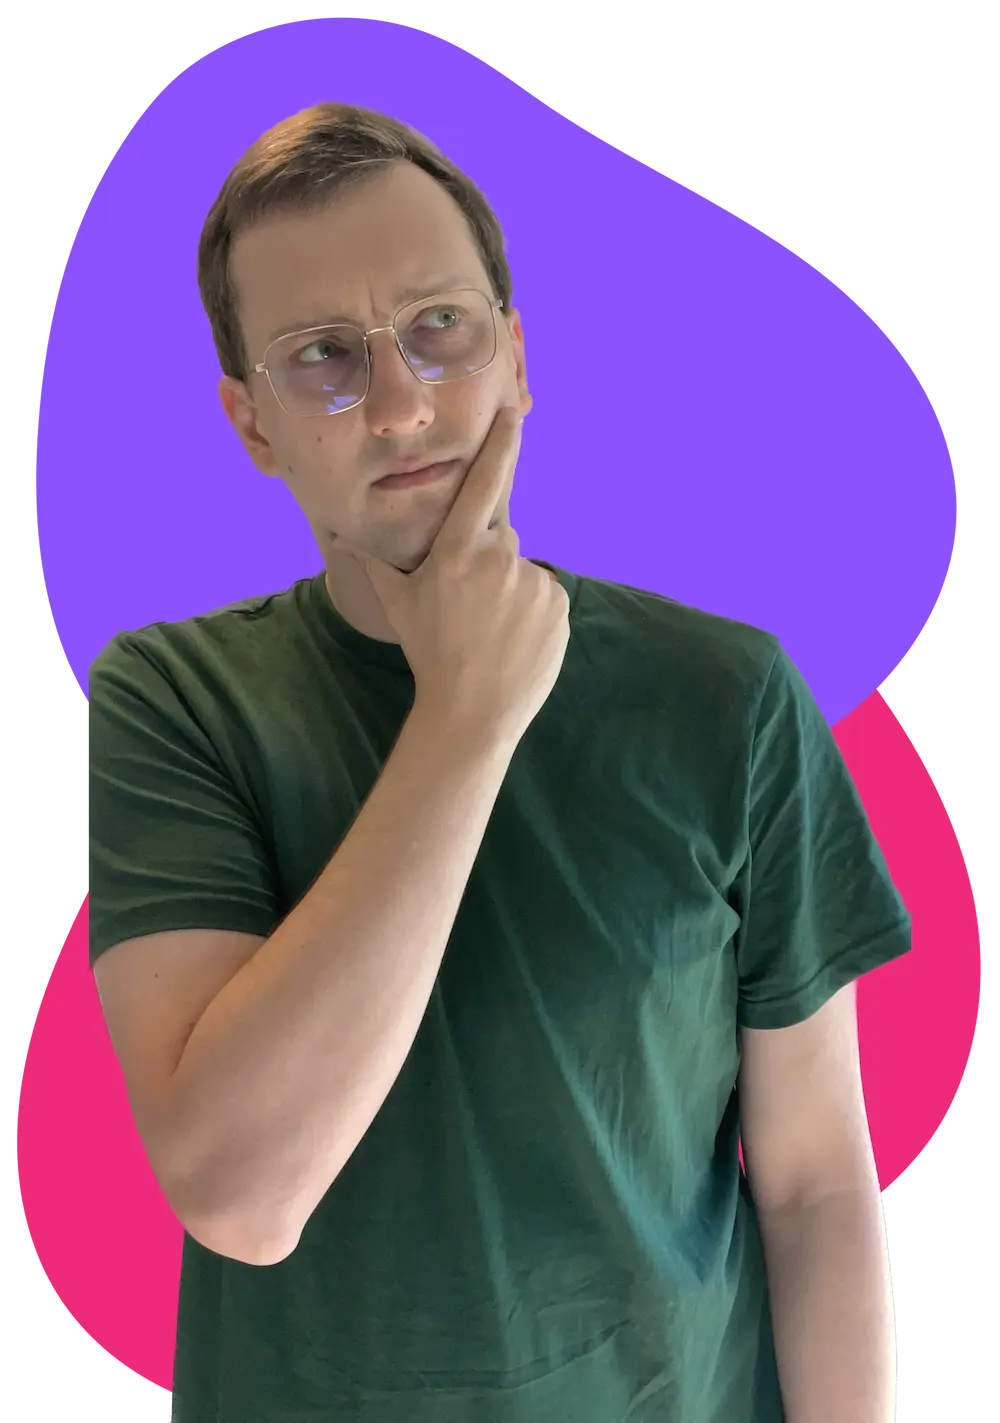
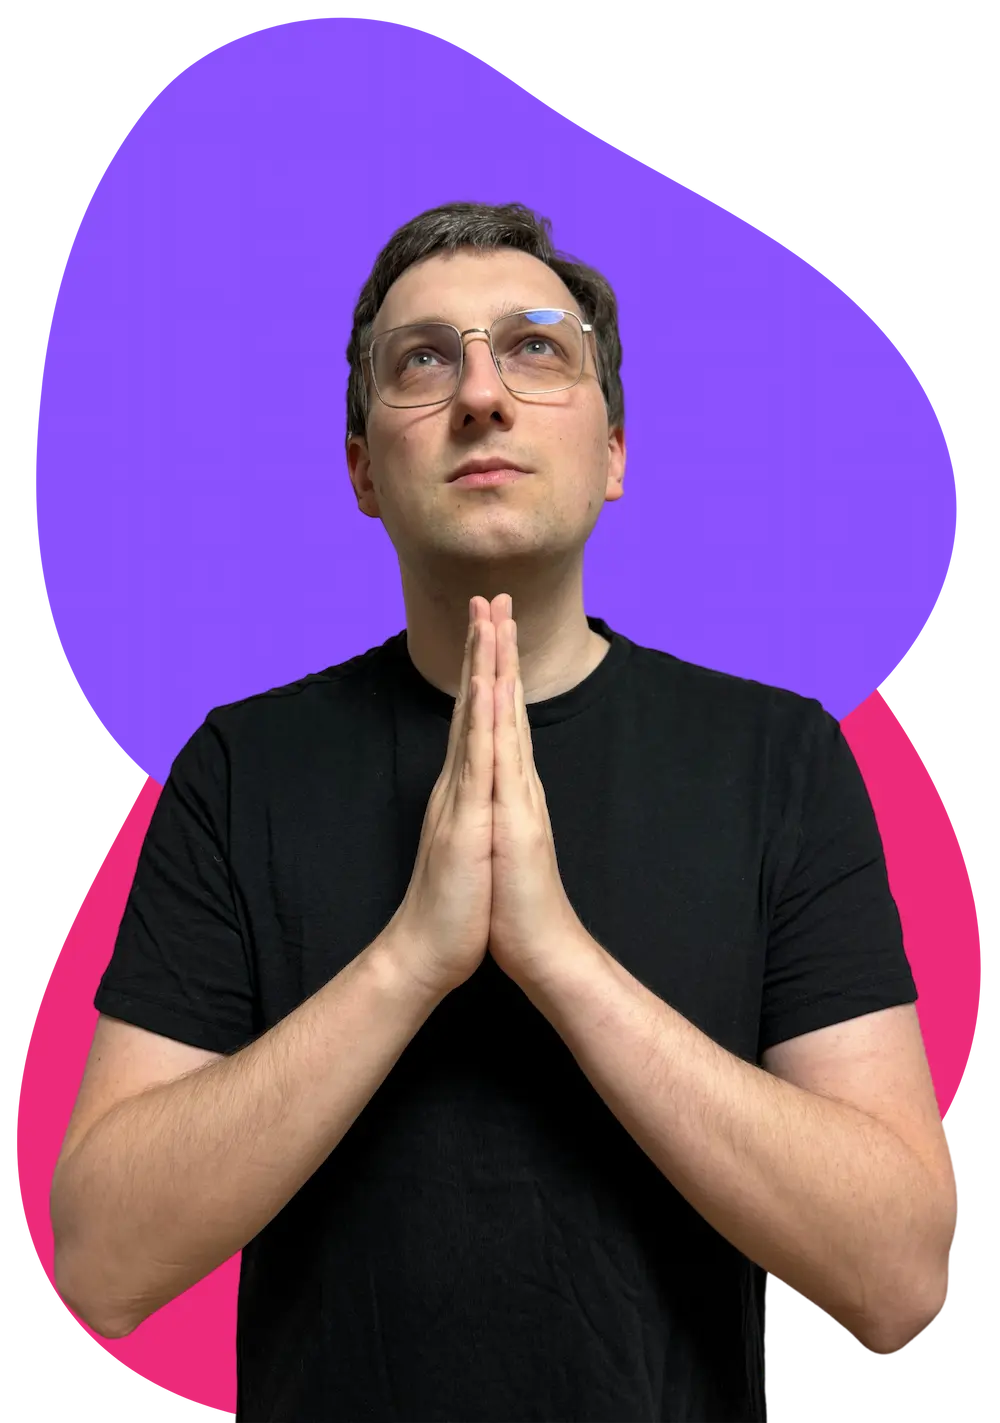
changing the home picture, improving the smm section

diff --git a/_includes/framework/blocks/components/contact-me.html b/_includes/framework/blocks/components/contact-me.html
@@ -7,6 +7,4 @@
 <ul>
     <li><a href="https://www.linkedin.com/in/oliverjessner/">LinkedIn</a></li>
     <li><a href="https://calendly.com/oliverjessner/30min">calendly</a></li>
-    <li><a href="https://www.tiktok.com/@oliverjessner">TikTok</a></li>
-    <li><a href="https://www.youtube.com/@oliverjessner">YouTube</a></li>
 </ul>

diff --git a/pages/social-media-marketing.md b/pages/social-media-marketing.md
@@ -17,14 +17,18 @@ big-number-3-subtext: Videos
 
 # Social Media Marketing
 
-Ich bin selbst als Content Creator tätig, insbesondere auf TikTok, wo ich in nur 4 Monaten _12.700 Follower_ gewinnen konnte. Mein Content konzentriert sich auf Softwareentwicklung. Zusätzlich hatte ich die Ehre, als Brand Ambassador für das Startup Codesphere zu arbeiten. Dort haben meine Videos nicht nur über 10 Millionen Aufrufe erzielt, sondern auch beträchtliche Umsätze generiert. Ein weiteres spannendes Projekt von mir war die Schaffung einer Discord-Community in Zusammenarbeit mit einem befreundeten Content Creator, in der sich über 500 Softwareentwickler austauschen.
+Ich bin selbst als Content Creator aktiv, insbesondere auf TikTok, wo ich in nur 4 Monaten eine bemerkenswerte Followerzahl von **12.700** (Stand Feb: 13.300) aufbauen konnte. Meine Follower setzt sich ausschließlich aus deutschsprachigen Softwareentwicklern und Personen zusammen, die ihr Interesse an der Softwareentwicklung entdecken möchten.
 
-Gerne unterstütze ich die Promotion von Produkten, die meinen ethischen und Qualitätsrichtlinien entsprechen. Dabei besteht die Möglichkeit, sie entweder auf einem meiner Kanäle zu bewerben oder direkt auf deinen!
+Darüber hinaus hatte ich das Privileg, als Brand Ambassador für das aufstrebende Startup Codesphere zu arbeiten. Meine Videos erzielten nicht nur über 10 Millionen Aufrufe, sondern trugen auch maßgeblich zu beträchtlichen Umsätzen bei.
+
+Neben diesen Erfahrungen habe ich auch für große Unternehmen wie Wix gearbeitet und dabei ein breites Spektrum an Aufgaben übernommen, von der Erstellung bezahlter Anzeigen bis hin zur Entwicklung interner Video-Plattformen. Gerne unterstütze ich die Promotion von Produkten, die meinen ethischen und Qualitätsrichtlinien entsprechen. Dabei besteht die Möglichkeit, sie entweder auf einem meiner Kanäle zu bewerben oder direkt über deine Plattform.
 
 ## Autor
 
-Ich war auch als Autor für t3n tätig, das wohl größte Printmedium im deutschsprachigen Raum. Gerne stehe ich als Autor für gesponserte Beiträge zur Verfügung. _Was bedeutet das?_ Wenn du dein Softwareprodukt in einer renommierten Zeitschrift mit über 60.000 Lesern platzieren möchtest, kann ich das für dein Unternehmen übernehmen. Vom Konzept über die Projektplanung bis hin zur finalen Artikelverfassung übernehme ich alle diese Schritte für dich.
+Als Freelance-Autor für renommierte Plattformen wie t3n und Golem.de berichte ich leidenschaftlich über die neuesten Entwicklungen und Technologien im Softwarebereich. Mein Fokus liegt nicht nur auf technischen Aspekten, sondern auch auf Themen wie New Work und den sich ständig verändernden Arbeitsweisen in der digitalen Welt. Durch meine Beiträge bringe ich Leserinnen und Lesern einen fundierten Einblick in die Zukunft der Technologie und Arbeitswelt bieten, indem ich komplexe Themen verständlich und zugänglich aufbereite.
 
 ### Sonstiges
 
 Seit einigen Jahren bin ich zudem als Mentor für hochbegabte Kinder aktiv, weshalb mir das Thema freie Bildung und Children in Tech besonders am Herzen liegt. Wenn es um Bildung oder die Community geht, bin ich sicher, dass wir einen Weg finden können, wie wir zusammenarbeiten können. Podcasts, Interviews, Gastbeiträge, etc. sind alle Möglichkeiten, die ich gerne in Betracht ziehe.
+
+Ein weiteres spannendes Projekt war die Initiierung einer Discord-Community in Zusammenarbeit mit einem befreundeten Content Creator, in der sich über 500 Softwareentwickler austauschen.
